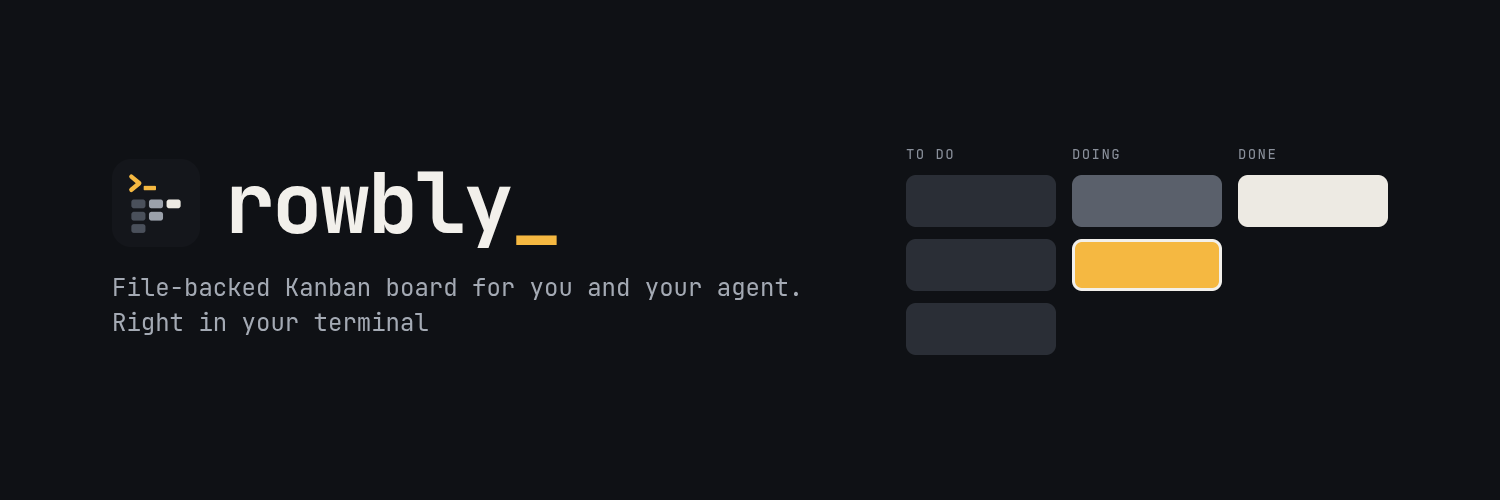
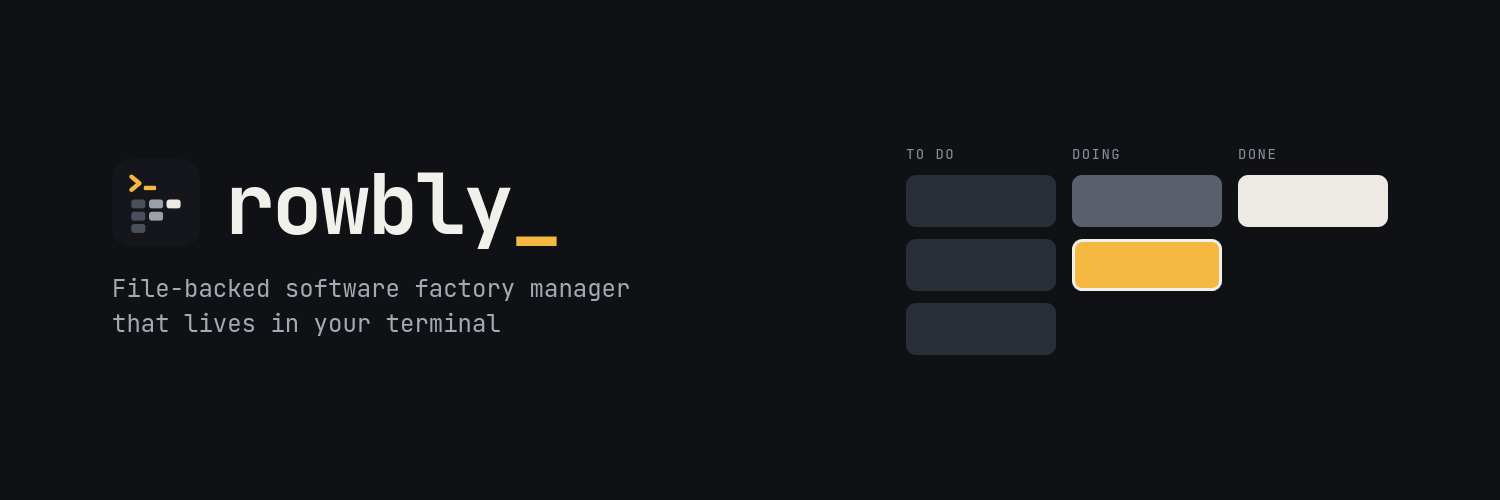
feat: update readme

diff --git a/README.md b/README.md
@@ -5,23 +5,19 @@
 <p align="center">
   <a href="https://github.com/sgolovine/rowbly/actions/workflows/ci.yml"><img src="https://img.shields.io/github/actions/workflow/status/sgolovine/rowbly/ci.yml?branch=main&label=build" alt="Build status"></a>
   <a href="https://www.npmjs.com/package/rowbly"><img src="https://img.shields.io/npm/v/rowbly?color=f5b841" alt="npm version"></a>
-  <a href="https://github.com/sgolovine/rowbly/releases/latest"><img src="https://img.shields.io/github/v/release/sgolovine/rowbly?label=release" alt="Latest release"></a>
   <a href="https://www.npmjs.com/package/rowbly"><img src="https://img.shields.io/npm/dm/rowbly?color=blue" alt="npm downloads"></a>
-  <img src="https://img.shields.io/node/v/rowbly" alt="Node version">
   <a href="https://github.com/sgolovine/rowbly/blob/main/LICENSE.md"><img src="https://img.shields.io/npm/l/rowbly" alt="License"></a>
 </p>
 
 <p align="center">
-  <strong>Give your coding agents a board. Keep the board in your repo.</strong>
+  <strong>The Easiest Way to Run an AI Software Factory</strong>
 </p>
 
-Rowbly is a Kanban board for you and your coding agents. It lives in your repository, and it opens in your terminal.
+Rowbly is the simplest way to set up and manage an AI-powered software factory. Create stories, organize them into predefined stages, and let your AI agents automatically pick up and execute the work.
 
-Agents do their best work when they know what to do next. With Rowbly, you write a story and put it in a stage. The stage tells the agent what to do with that story. You watch the work move across the board.
+The biggest challenge with AI software factories isn't writing code, it's orchestrating the agents. Coordinating supervisors, delegating tasks, and tracking progress can quickly become a project of its own.
 
-Rowbly has no server, no account and no database. Your board is a folder of Markdown files, so it stays with your code in Git. You can read each file, change each file and examine each change in a pull request.
-
-You use the terminal UI. Your agents use the CLI. Both change the same files, so you always see the same board.
+Rowbly eliminates that complexity with an intuitive Kanban board and a companion agent skill that runs a supervisor to monitor your workflow, assign work to agents, and keep development moving automatically.
 
 <p align="center">
   <img src="https://raw.githubusercontent.com/sgolovine/rowbly/main/assets/screenshot.png" alt="The Rowbly terminal UI shows the stories of a project, grouped by stage, with the name of the agent that works on each story" width="100%">
@@ -29,33 +25,19 @@ You use the terminal UI. Your agents use the CLI. Both change the same files, so
 
 ## Installation
 
-Rowbly runs on Node 22 or later. Install it from npm:
+Rowbly runs on Node 24 or later. Install it from npm:
 
 ```sh
 npm install -g rowbly
 ```
 
-Go to your project and create a board:
+You can also run it directly with `npx`:
 
 ```sh
-cd my-project
-rowbly init
+npx rowbly
 ```
 
-`rowbly init` asks you to use the defaults or to choose the name, stages, agent skills and harnesses. Run `rowbly` with no project to do the same setup in the terminal UI. Agents and scripts can use flags or JSON:
-
-```sh
-rowbly init --defaults
-rowbly init --stage Backlog --stage QA --stage Done --skill factory --harness codex
-echo '{"name":"Web","stages":["Backlog","Done"],"skills":[]}' | rowbly init --input -
-```
-
-The default stages are **Backlog**, **In Refinement**, **In Development**, **In Review** and **Done**. Backlog and Done are always enabled. Add your first story, then open the board:
-
-```sh
-rowbly create-story --title "Add a login page"
-rowbly
-```
+To get started, run either `rowbly` for interactive onboarding or by running `rowbly init`. This will walk you through the process of setting up a software factory for your project. Rowbly ships with sensible defaults so you can get up and running quickly.
 
 Press `?` in the terminal UI to see all the keys. Run `rowbly --help` to see all the commands.
 
@@ -107,7 +89,7 @@ cd rowbly
 pnpm install
 pnpm dev              # run the terminal UI from source
 pnpm dev --help       # run the CLI from source
-pnpm link --global    # put your local build on your PATH
+pnpm add -g "path:$PWD" # install rowbly to your PATH
 ```
 
 Run these checks before you send a change:
